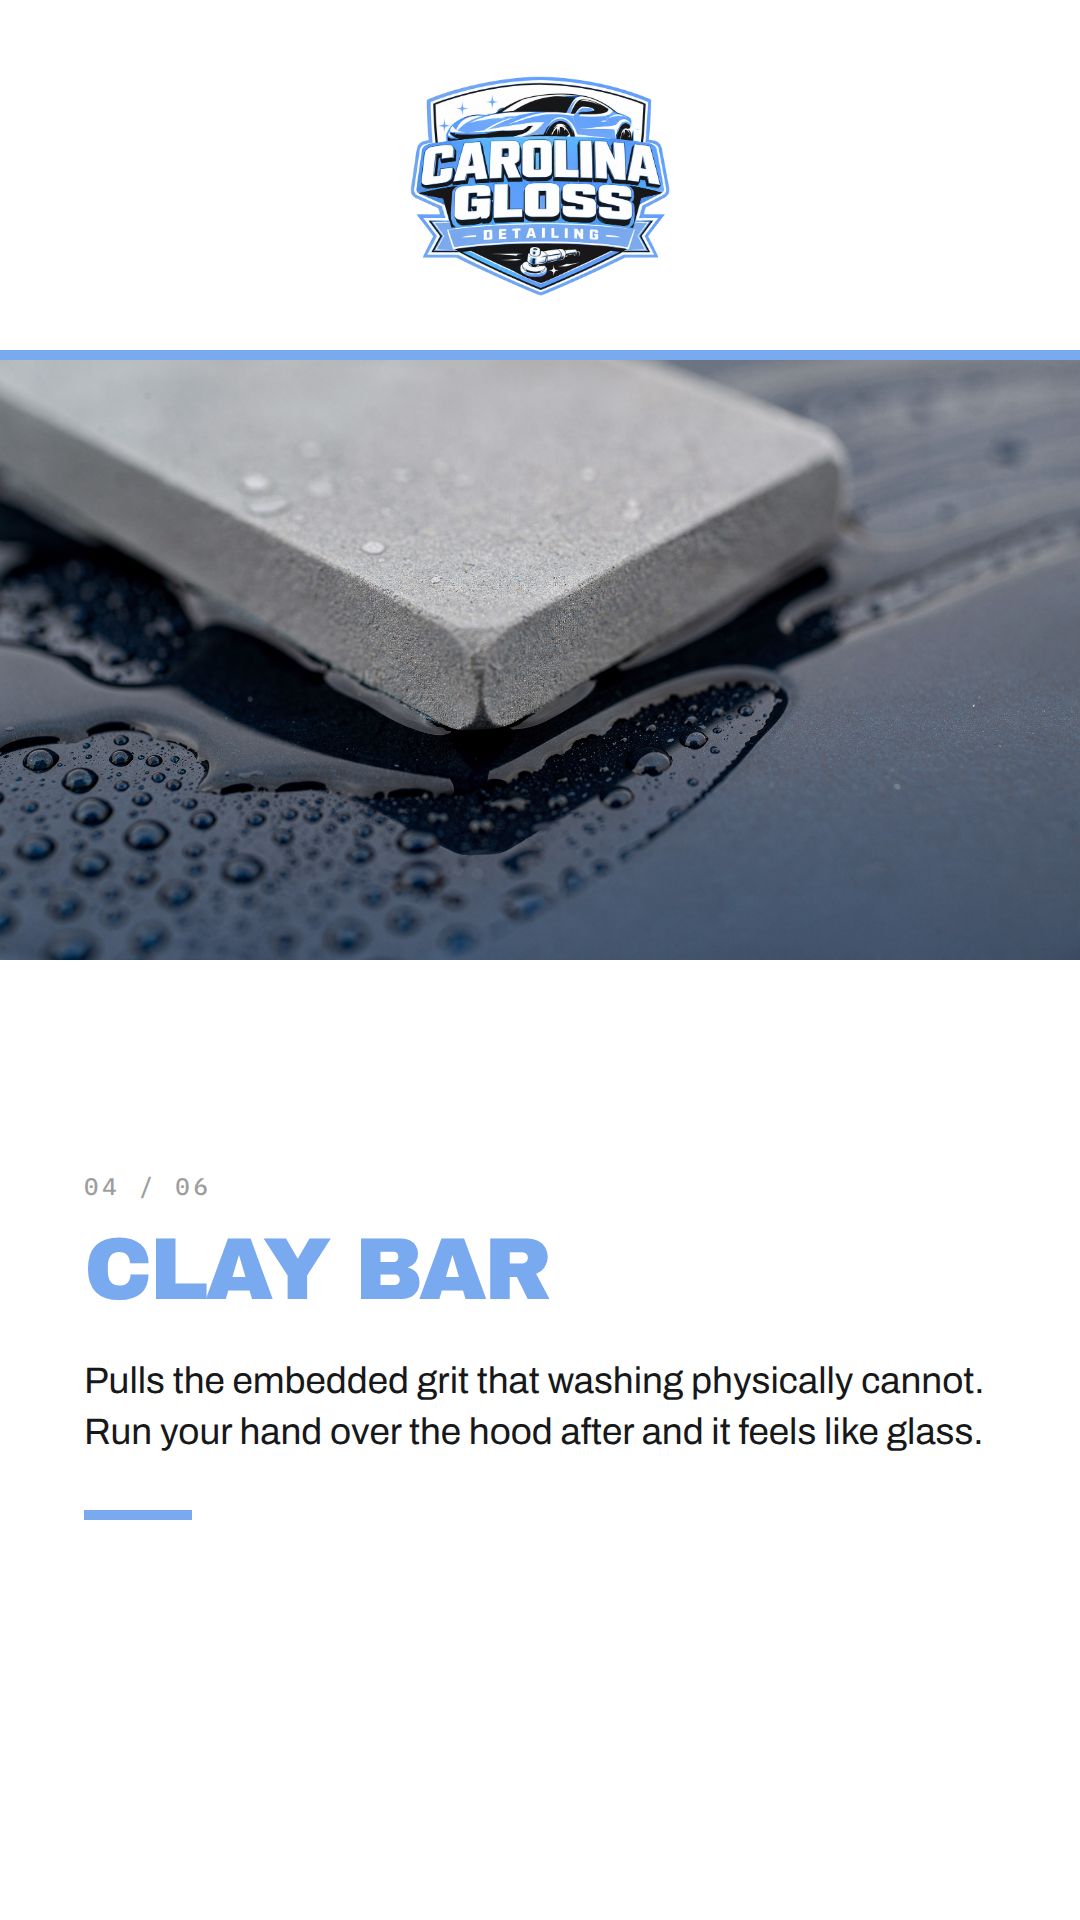
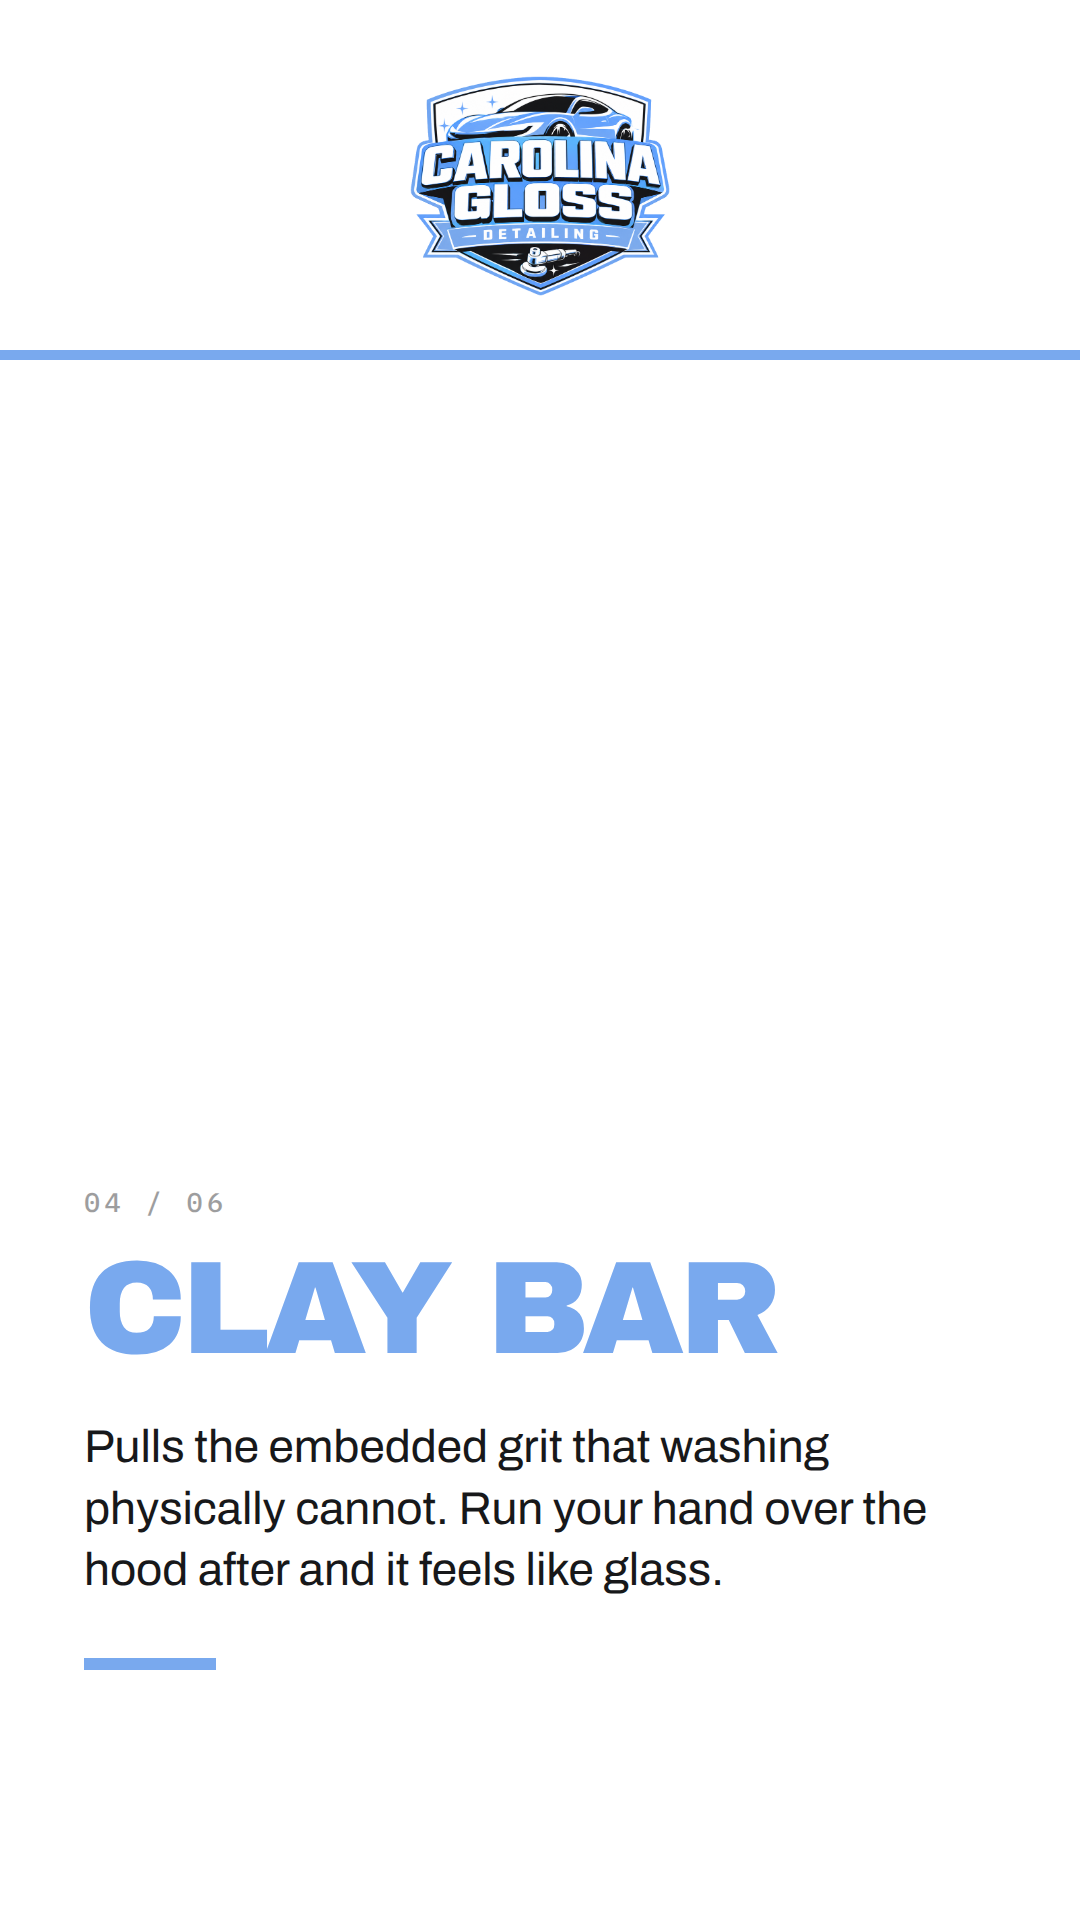
Strip the detail slides back to type and maximise it
Photographs come off. Headline goes to 132px and body to 46px, and the block
anchors to the bottom instead of centring so every slide shares a baseline
while headlines grow upward on the longer ones.

The band, window and bleed treatments stay in the code and the macros stay in
assets, so a slide can take a photograph again by naming a layout and a file.

Claude-Session: https://claude.ai/code/session_016b3V5EjCTmSZMCSHy3XdSF

diff --git a/design/story-highlights/details.py b/design/story-highlights/details.py
@@ -5,14 +5,13 @@ Eight slides. An opener, six steps, a close. Each slide takes one thing that
 actually happens to the car and says why it matters, rather than asking and
 answering a question.
 
-The photo treatment varies across the set — band, window, full bleed — so
-tapping through has rhythm. The header, type and palette hold it together.
-Adjacent slides never share a treatment.
+Text only, set as large as the frame will carry. The block is anchored to the
+bottom rather than centred, so every slide shares a baseline and the headline
+grows upward on the longer ones. Anchoring beats centring here because the copy
+lengths differ: a centred block drifts, a bottom-aligned one does not.
 
-Photographs are generated macros in assets/macros. They work because there is
-no vehicle identity in any frame: no badge to melt, no wheel spokes to
-miscount, no full-panel reflection to get wrong. Anything wider than these
-crops has to be shot for real.
+Give a step a layout of "band", "window" or "bleed" plus a filename from
+assets/macros to put a photograph back on it.
 
 Every line is lifted from the package pages on carolinaglossdetailing.com and
 tightened. Nothing here claims a duration, a deposit policy or a ceramic
@@ -29,22 +28,22 @@ TMP = ("/tmp/claude-0/-home-user-Weakends-Media-Team/"
 PHONE = "980·690·5259"
 
 STEPS = [
-    ("hand", "band", "foam.png", "Hand washed, hand finished",
+    ("hand", "text", "", "Hand washed, hand finished",
      "No machines. No brushes. Two mitts and clean water, the way paint is "
      "supposed to be washed."),
-    ("two-bucket", "window", "buckets.png", "Two buckets, two mitts",
+    ("two-bucket", "text", "", "Two buckets, two mitts",
      "Dirt goes in a separate bucket, never back onto your paint. It is the "
      "difference between clean and scratched."),
-    ("wheels", "bleed", "wheel.png", "Wheels, tires and trim",
+    ("wheels", "text", "", "Wheels, tires and trim",
      "The part every drive-thru wash skips. Brake dust out of the barrels, "
      "trim back to black."),
-    ("clay", "band", "clay.png", "Clay bar",
+    ("clay", "text", "", "Clay bar",
      "Pulls the embedded grit that washing physically cannot. Run your hand "
      "over the hood after and it feels like glass."),
-    ("extraction", "window", "extraction.png", "Hot water extraction",
+    ("extraction", "text", "", "Hot water extraction",
      "Water goes in and comes back out with the stain. Coffee, dog, kids, "
      "gym bag. Gone, not covered up."),
-    ("seal", "bleed", "beading.png", "Strip, then seal",
+    ("seal", "text", "", "Strip, then seal",
      "Old wax and road film come off first, so the new protection bonds to "
      "the paint instead of sitting on top of it."),
 ]
@@ -60,13 +59,13 @@ body{{width:1080px;height:1920px;overflow:hidden;background:#FFFFFF;
 .head img{{width:264px;height:auto;display:block;}}
 .bar{{flex:0 0 auto;height:10px;background:{blue};}}
 .body{{flex:1 1 auto;padding:70px 84px 250px;display:flex;flex-direction:column;
- justify-content:center;}}
-.count{{font:500 24px 'IBM Plex Mono',monospace;letter-spacing:0.16em;
+ justify-content:flex-end;}}
+.count{{font:500 27px 'IBM Plex Mono',monospace;letter-spacing:0.16em;
  color:{ink};opacity:0.42;}}
-.q{{margin:28px 0 0;font-family:'Archivo Black',Helvetica,sans-serif;font-size:88px;
- line-height:0.94;letter-spacing:-0.035em;color:{blue};text-transform:uppercase;}}
-.a{{margin:44px 0 0;font:400 37px/1.38 Archivo,sans-serif;color:{ink};}}
-.mark{{margin-top:52px;width:108px;height:10px;background:{blue};}}
+.q{{margin:30px 0 0;font-family:'Archivo Black',Helvetica,sans-serif;font-size:132px;
+ line-height:0.9;letter-spacing:-0.04em;color:{blue};text-transform:uppercase;}}
+.a{{margin:48px 0 0;font:400 46px/1.34 Archivo,sans-serif;color:{ink};}}
+.mark{{margin-top:56px;width:132px;height:12px;background:{blue};}}
 .band{{flex:0 0 auto;height:600px;background-size:cover;background-position:center;}}
 .band + .body{{justify-content:center;padding-top:60px;}}
 .window{{height:500px;border-radius:30px;overflow:hidden;background-size:cover;
@@ -79,10 +78,10 @@ body{{width:1080px;height:1920px;overflow:hidden;background:#FFFFFF;
 .over .count{{color:#FFFFFF;opacity:0.6;}}
 .over .q{{color:#FFFFFF;}}
 .over .a{{color:rgba(255,255,255,0.9);}}
-.lead{{font-family:'Archivo Black',Helvetica,sans-serif;font-size:104px;
- line-height:0.92;letter-spacing:-0.035em;color:{blue};text-transform:uppercase;}}
-.sub{{margin:40px 0 0;font:400 38px/1.36 Archivo,sans-serif;color:{ink};}}
-.hint{{margin:56px 0 0;font:500 25px 'IBM Plex Mono',monospace;
+.lead{{font-family:'Archivo Black',Helvetica,sans-serif;font-size:148px;
+ line-height:0.88;letter-spacing:-0.04em;color:{blue};text-transform:uppercase;}}
+.sub{{margin:46px 0 0;font:400 46px/1.34 Archivo,sans-serif;color:{ink};}}
+.hint{{margin:60px 0 0;font:500 27px 'IBM Plex Mono',monospace;
  letter-spacing:0.1em;color:{muted};}}
 .cta{{margin-top:56px;background:{blue};border-radius:28px;padding:36px 28px;
  display:flex;flex-direction:column;align-items:center;text-align:center;}}
@@ -115,6 +114,8 @@ def step_slide(i, total, layout, image, head, body):
     text = ('<div class="count">%02d / %02d</div><div class="q">%s</div>'
             '<div class="a">%s</div><div class="mark"></div>'
             % (i, total, head, body))
+    if layout == "text" or not image:
+        return '<div class="body">%s</div>' % text
     uri = img_uri(image)
     if layout == "bleed":
         return ('<div class="stage" style="background-image:url(%s)">'

diff --git a/design/story-highlights/COPY.md b/design/story-highlights/COPY.md
@@ -131,25 +131,26 @@ eight. `faq_concepts.py` holds the four concepts the style came from, and
 Eight slides pulled straight from the package pages: an opener, six steps, a
 close. Each takes one thing that happens to the car and says why it matters.
 
-| Slide | Line | Treatment | Photo |
-|---|---|---|---|
-| `00-open` | The standard | text | — |
-| `01-hand` | Hand washed, hand finished | band | foam |
-| `02-two-bucket` | Two buckets, two mitts | window | buckets |
-| `03-wheels` | Wheels, tires and trim | full bleed | wheel |
-| `04-clay` | Clay bar | band | clay |
-| `05-extraction` | Hot water extraction | window | extraction |
-| `06-seal` | Strip, then seal | full bleed | beading |
-| `07-close` | Built around your car + call or text | text | — |
+| Slide | Line |
+|---|---|
+| `00-open` | The standard |
+| `01-hand` | Hand washed, hand finished |
+| `02-two-bucket` | Two buckets, two mitts |
+| `03-wheels` | Wheels, tires and trim |
+| `04-clay` | Clay bar |
+| `05-extraction` | Hot water extraction |
+| `06-seal` | Strip, then seal |
+| `07-close` | Built around your car + call or text |
 
-The treatment varies so tapping through has rhythm; adjacent slides never share
-one. Full bleed goes to the two most persuasive frames. The header, type and
-palette hold the set together.
+Text only, set as large as the frame carries: headline at 132px, body at 46px.
+The block anchors to the bottom rather than centring, so every slide shares a
+baseline and headlines grow upward on the longer ones. Copy lengths differ, and
+a centred block drifts where a bottom-aligned one does not.
 
-Photographs are generated macros in `assets/macros`. They hold up because no
-frame carries vehicle identity: no badge to melt, no wheel spokes to miscount,
-no full-panel reflection to get wrong. Anything wider than these crops has to
-be shot for real.
+`assets/macros` holds generated macro photographs from an earlier pass. Give a
+step a layout of `band`, `window` or `bleed` plus a filename to put one back.
+They hold up only because no frame carries vehicle identity — no badge, no wheel
+spokes, no full-panel reflection. Anything wider has to be shot for real.
 
 The block is vertically centred rather than top-aligned. Top-aligned left a
 third of the frame empty under a short line and read as unfinished.
